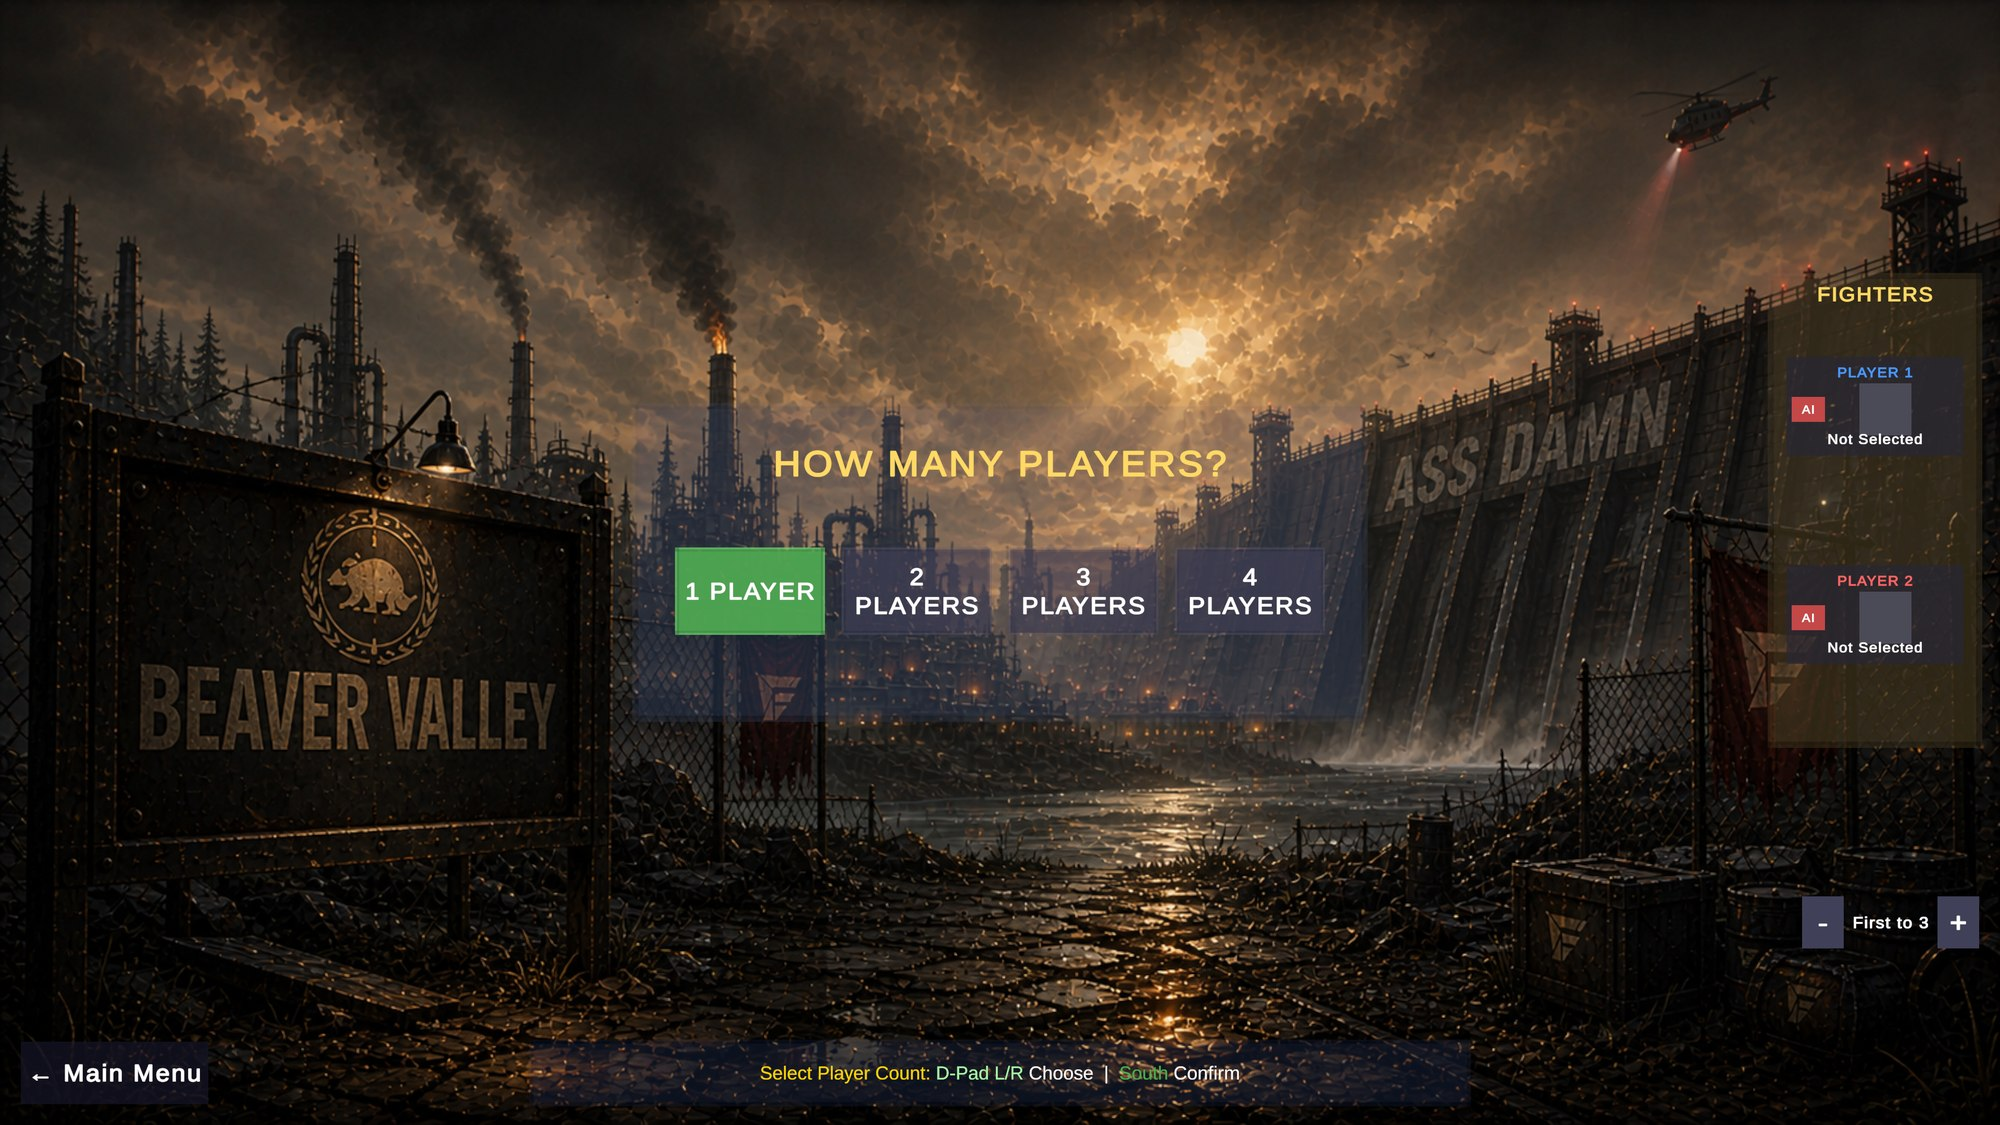
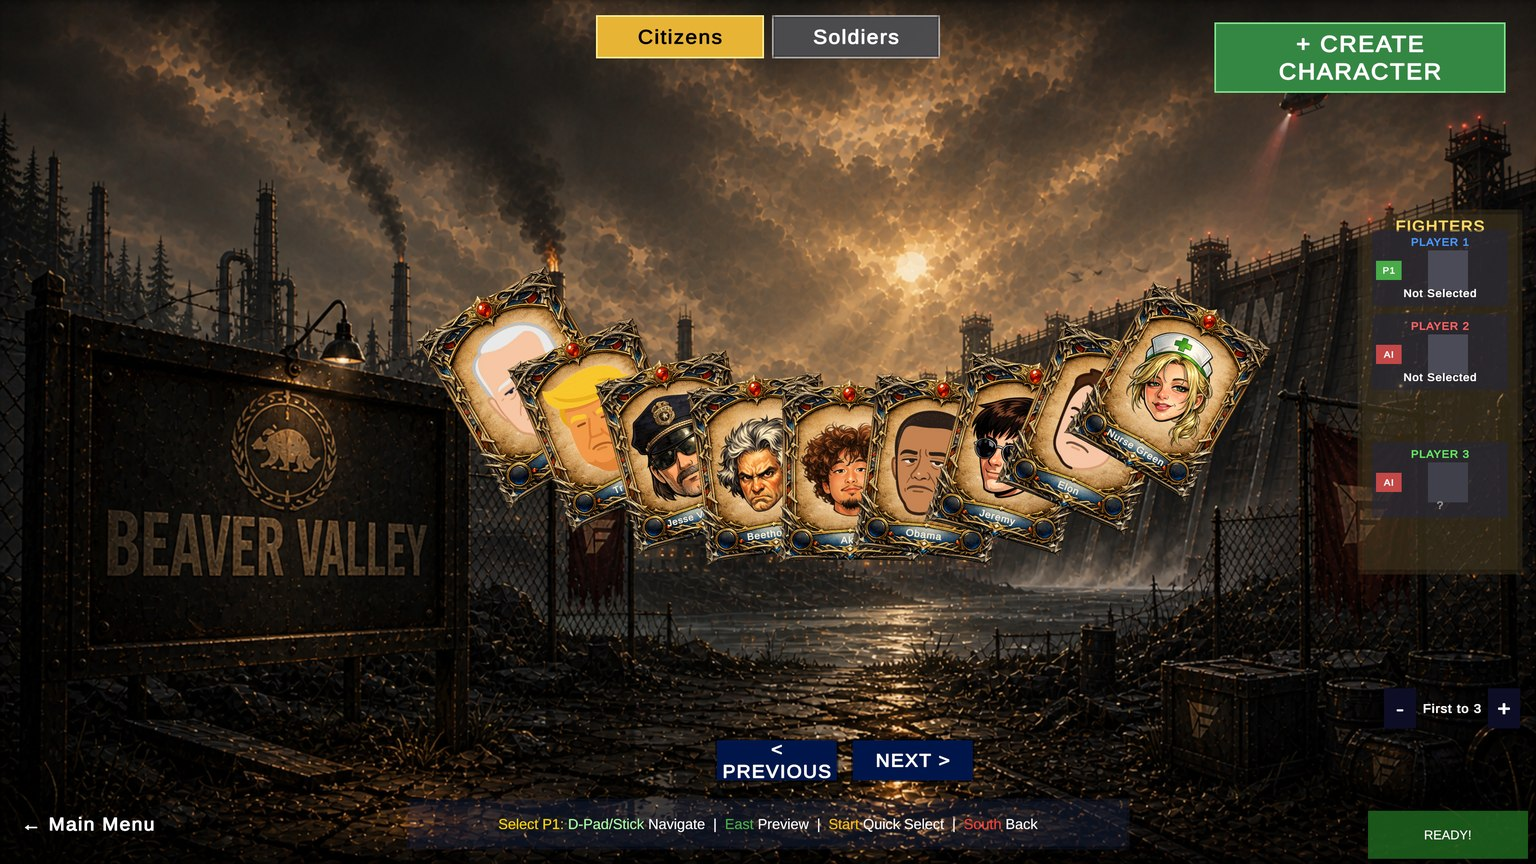
Replace the oldest screenshots: menu, character select, naval station, the two bad cinematic stills
Captured fresh from the current build today:
- gp-menu: the real main menu with all eleven entries, so the caption no
  longer has to apologise that Beaver Slap, Poker and Ocean Operations
  "have since joined it" (it was a July shot showing seven).
- gp-charselect: the current roster carousel with the Citizens/Soldiers
  tabs and Create Character; gp-playercount is the new how-many-players
  screen for the couch co-op feature.
- gp-navy-hud: today's frigate fire-control station - helo deck and RHIB
  stow tabs, auto defence, a hail in progress - replacing the August one.

Retired the two pre-rendered cinematic stills the user called out as bad
and old (gp-sub-launch "Tomahawk Away", gp-sub-dive "The Dive"). The
waterfront gallery now shows the nuclear detonation and the vessel select
in their place, and the strategic-strike feature uses the real aftermath
background the game swaps in after a city strike.

Claude-Session: https://claude.ai/code/session_01AtQMnmPJdwt7XvaCAQtgZi

diff --git a/world.html b/world.html
@@ -198,8 +198,8 @@
       <figure class="gtile reveal zoomable" data-cap="Surfaced at dusk. The ferry keeps its own schedule and does not care about you."><img src="images/gameplay/gp-navy-surfaced.jpg" alt="A surfaced submarine at dusk with a ferry on the horizon" loading="lazy"><figcaption><b>On the Surface</b><span>Seen, and seeing</span></figcaption></figure>
       <figure class="gtile reveal zoomable" data-cap="Down where it is quiet — hulls overhead, and a decision to make about each one."><img src="images/gameplay/gp-navy-submerged.jpg" alt="An underwater view of a submarine with surface ships overhead" loading="lazy"><figcaption><b>Below</b><span>Where it's quiet</span></figcaption></figure>
       <figure class="gtile reveal zoomable" data-cap="The naval chart — soundings in metres, north up, and everything anybody has fired on it."><img src="images/env/env-navy-chart.jpg" alt="The expanded naval operations chart of the Beaver Valley approaches" loading="lazy"><figcaption><b>The Chart</b><span>Beaver Valley approaches</span></figcaption></figure>
-      <figure class="gtile wide reveal zoomable" data-cap="Tomahawk away — the boat has to surface first, and then everyone knows where you are."><img src="images/gameplay/gp-sub-launch.jpg" alt="A Tomahawk missile launching from a surfaced submarine" loading="lazy"><figcaption><b>Tomahawk Away</b><span>Surface first. Everyone will know.</span></figcaption></figure>
-      <figure class="gtile reveal zoomable" data-cap="Going down — the dive is a real sequence, not a fade to black."><img src="images/gameplay/gp-sub-dive.jpg" alt="A submarine diving beneath the surface" loading="lazy"><figcaption><b>The Dive</b><span>Not a fade to black</span></figcaption></figure>
+      <figure class="gtile wide reveal zoomable" data-cap="The nuclear round going off. Five kilometres of blast radius, and the flash lights the sea for tens of kilometres more."><img src="images/gameplay/gp-nuclear-flash.jpg" alt="A nuclear detonation lighting the whole sea, the surfaced submarine in the middle of it" loading="lazy"><figcaption><b>The Nuke</b><span>Five kilometres of blast radius</span></figcaption></figure>
+      <figure class="gtile reveal zoomable" data-cap="Vessel select — nine platforms, three aircraft rosters and a destroyer, each one handing you back to a different walkable place."><img src="images/gameplay/gp-vessel-select.jpg" alt="The Ocean Operations vessel select screen showing nine platforms and three aircraft rosters" loading="lazy"><figcaption><b>Pick a Platform</b><span>Nine of them, and an air wing</span></figcaption></figure>
       <figure class="gtile wide reveal zoomable" data-cap="The pen — sail in surfaced and shallow, and step off onto the quay underneath the town."><img src="images/env/env-sub-pen-dock.jpg" alt="The submarine pen's underground dock inside the sewers" loading="lazy"><figcaption><b>The Submarine Pen</b><span>Home port, under the Valley</span></figcaption></figure>
       <figure class="gtile reveal zoomable" data-cap="The submarine harbour — an empty berth, until you bring something back to put in it."><img src="images/env/env-sub-harbor.jpg" alt="The submarine harbour quay with an empty berth" loading="lazy"><figcaption><b>Submarine Harbor</b><span>An empty berth</span></figcaption></figure>
       <figure class="gtile reveal zoomable" data-cap="The naval quay — walk down it and up the frigate's brow."><img src="images/env/env-frigate-quay.jpg" alt="The naval quay where the frigate ties up" loading="lazy"><figcaption><b>The Naval Quay</b><span>Where the frigate ties up</span></figcaption></figure>

diff --git a/features.html b/features.html
@@ -380,7 +380,7 @@
   <!-- 17 -->
   <article class="feature">
     <figure class="feature-media media media-frame reveal zoomable" data-cap="Pick your player count right from the start — up to four.">
-      <img src="images/gameplay/gp-charselect.jpg" alt="The character-select screen asking how many players, one through four" loading="lazy">
+      <img src="images/gameplay/gp-playercount.jpg" alt="The character-select screen asking how many players, one through four" loading="lazy">
       <figcaption class="cap"><b>In-engine:</b> one to four players</figcaption>
     </figure>
     <div class="feature-text reveal d1">
@@ -938,9 +938,9 @@
 
   <!-- 43 -->
   <article class="feature">
-    <figure class="feature-media media media-frame reveal zoomable" data-cap="A Tomahawk leaving the cells. If the target is in the Valley, it goes to the Valley.">
-      <img src="images/gameplay/gp-sub-launch.jpg" alt="A Tomahawk cruise missile launching from the submarine on a pillar of flame" loading="lazy">
-      <figcaption class="cap">Launch</figcaption>
+    <figure class="feature-media media media-frame reveal zoomable" data-cap="What the street looks like afterwards &mdash; this is the scene&rsquo;s new background, and you can walk down it.">
+      <img src="images/gameplay/gp-city-aftermath.jpg" alt="A Beaver Valley street after a cruise missile strike, smoking crater and rubble under the streetlights" loading="lazy">
+      <figcaption class="cap">After the strike</figcaption>
     </figure>
     <div class="feature-text reveal d1">
       <div class="feature-num">43 / Consequence</div>

diff --git a/index.html b/index.html
@@ -145,9 +145,9 @@
       <h2 class="section-title">Modes</h2>
       <p class="section-lead" style="margin-inline:auto">Self-contained games that run standalone <em>and</em> inside the living town.</p>
     </div>
-    <figure class="media media-frame reveal zoomable" data-cap="The actual in-game main menu. Beaver Slap, Poker and Ocean Operations have since joined the list." style="max-width:940px;margin:0 auto 42px">
+    <figure class="media media-frame reveal zoomable" data-cap="The actual in-game main menu &mdash; eleven entries, every one of them built." style="max-width:940px;margin:0 auto 42px">
       <img src="images/gameplay/gp-menu.jpg" alt="The Beaver Valley main menu with mode selection" loading="lazy">
-      <figcaption class="cap"><b>In-engine:</b> the real mode-select menu &mdash; Beaver Slap, Poker and Ocean Operations have since joined it</figcaption>
+      <figcaption class="cap"><b>In-engine:</b> the real mode-select menu</figcaption>
     </figure>
     <div class="grid grid-3">
       <div class="card reveal"><div class="card-img"><span class="card-tag live">Playable</span><img src="images/env/env-city-center.jpg" alt="Beaver Valley city center at night" loading="lazy"></div><div class="card-body"><h3>Story / Free-Roam</h3><p>Be any of ~250 souls and roam the whole town while it lives its own day around you.</p></div></div>
